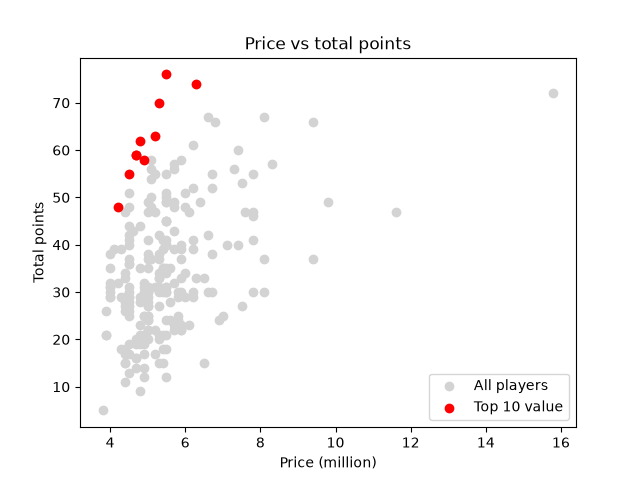
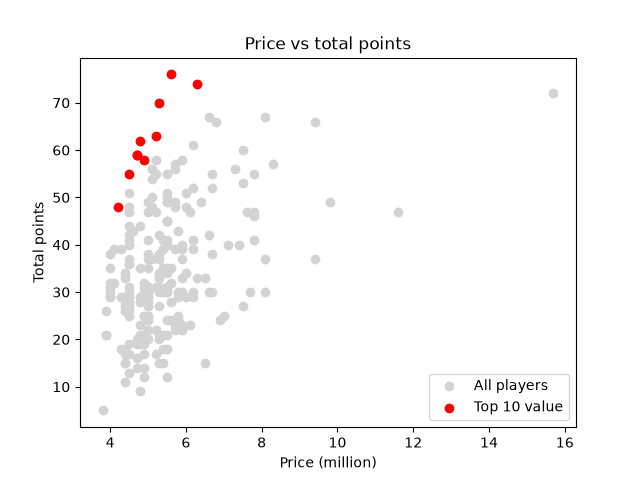
Exclude owned and injured players from suggestions

diff --git a/fetch_data.py b/fetch_data.py
@@ -1,6 +1,10 @@
 import requests
 import pandas as pd
 import matplotlib.pyplot as plt
+from openpyxl.drawing.image import Image
+from openpyxl.styles import Font
+from openpyxl.worksheet.table import Table, TableStyleInfo
+from openpyxl.formatting.rule import ColorScaleRule
 
 response = requests.get("https://fantasy.premierleague.com/api/bootstrap-static/")
 
@@ -114,8 +118,11 @@ team_difficulty = team_difficulty.reset_index().merge(team_map, on="team")
 print(team_difficulty.sort_values("difficulty"))
 
 filtered_df = filtered_df.merge(team_difficulty[["team_name", "difficulty"]], on="team_name", how="left")
+filtered_df = filtered_df.merge(players_df[["web_name", "team_name", "chance_of_playing_next_round", "news"]], on=["web_name", "team_name"], how="left")
+filtered_df["chance_of_playing_next_round"] = filtered_df["chance_of_playing_next_round"].fillna(100)
 print(filtered_df[["web_name", "team_name", "position", "price", "difficulty"]].sort_values("difficulty").head(10))
 print(filtered_df["difficulty"].isna().sum())
+
 
 def suggest_transfer(player_name):
     player = my_team[my_team["web_name"] == player_name].iloc[0]
@@ -126,6 +133,7 @@ def suggest_transfer(player_name):
         & (filtered_df["price"] <= budget)
         & (~filtered_df["web_name"].isin(my_team["web_name"]))
         & (~filtered_df["team_name"].isin(full_teams))
+        & (filtered_df["chance_of_playing_next_round"] >= 75)
     ].copy()
     candidates["score"] = candidates["points_per_game"] / candidates["difficulty"]
     return candidates.sort_values(["score", "price"], ascending=[False, True]).head(3)
@@ -146,10 +154,59 @@ suggestions_df = pd.DataFrame(suggestions)
 suggestions_df["gain"] = suggestions_df["buy_score"] - suggestions_df["own_score"]
 print(suggestions_df.sort_values("gain", ascending=False))
 
+best_move = suggestions_df.sort_values("gain", ascending=False).iloc[0]
+summary_df = pd.DataFrame({
+    "Metric": ["Team", "Gameweek", "Total points", "Bank (million)", "Best transfer", "Gain in score"],
+    "Value": [entry_data["name"], gw, entry_data["summary_overall_points"], bank, best_move["sell"] + " -> " + best_move["buy"], round(best_move["gain"], 2)],
+})
+
+not_owned = filtered_df[(~filtered_df["web_name"].isin(my_team["web_name"])) & (filtered_df["chance_of_playing_next_round"] >= 75)]
+best_idx = not_owned.groupby(["position", "price_band"], observed=True)["points_per_million"].idxmax()
+best_alt = not_owned.loc[best_idx, ["position", "price_band", "web_name", "points_per_million"]]
+mine = filtered_df[filtered_df["web_name"].isin(my_team["web_name"])][["web_name", "position", "price_band", "points_per_million"]]
+comparison = mine.merge(best_alt, on=["position", "price_band"], how="left", suffixes=("_mine", "_best")).sort_values(["position", "points_per_million_mine"], ascending=[True, False])
+
+report_sheets = {
+    "Summary": summary_df,
+    "Transfers": suggestions_df.sort_values("gain", ascending=False).rename(columns={
+        "sell": "Sell", "own_score": "Own score", "buy": "Buy", "buy_price": "Buy price (m)", "buy_score": "Buy score", "gain": "Gain"}),
+    "My team": comparison[["web_name_mine", "position", "price_band", "points_per_million_mine", "web_name_best", "points_per_million_best"]].rename(columns={
+        "web_name_mine": "Player", "position": "Position", "price_band": "Price band", "points_per_million_mine": "Points per million",
+        "web_name_best": "Best alternative", "points_per_million_best": "Alternative points per million"}),
+    "Best by price band": best_by_band[["position", "price_band", "web_name", "team_name", "price", "points_per_million"]].rename(columns={
+        "position": "Position", "price_band": "Price band", "web_name": "Player", "team_name": "Team", "price": "Price (m)", "points_per_million": "Points per million"}),
+    "Fixtures": team_difficulty.sort_values("difficulty")[["team_name", "difficulty"]].rename(columns={
+        "team_name": "Team", "difficulty": "Average difficulty, next 3 rounds"}),
+}
+tab_colors = ["1F4E78", "2E75B6", "548235", "BF8F00", "C00000"]
+green_to_red = ColorScaleRule(start_type="min", start_color="63BE7B", mid_type="percentile", mid_value=50, mid_color="FFFFFF", end_type="max", end_color="F8696B")
+red_to_green = ColorScaleRule(start_type="min", start_color="F8696B", mid_type="num", mid_value=0, mid_color="FFFFFF", end_type="max", end_color="63BE7B")
+
 with pd.ExcelWriter("fpl_report.xlsx", engine="openpyxl") as writer:
-    suggestions_df.sort_values("gain", ascending=False).to_excel(writer, sheet_name="Transfers", index=False)
-    comparison[["web_name_mine", "position", "price_band", "points_per_million_mine", "web_name_best", "points_per_million_best"]].to_excel(writer, sheet_name="My team", index=False)
-    best_by_band[["position", "price_band", "web_name", "team_name", "price", "points_per_million"]].to_excel(writer, sheet_name="Best by price band", index=False)
-    team_difficulty.sort_values("difficulty").to_excel(writer, sheet_name="Fixtures", index=False)
+    for i, (name, df) in enumerate(report_sheets.items()):
+        df.to_excel(writer, sheet_name=name, index=False, startrow=2)
+        sheet = writer.sheets[name]
+        sheet["A1"] = f"FPL report: {entry_data['name']}" if name == "Summary" else name
+        sheet["A1"].font = Font(size=16, bold=True, color="1F4E78")
+        sheet["A2"] = f"Gameweek {gw}. Data from the official FPL API."
+        sheet["A2"].font = Font(italic=True, color="808080")
+        sheet.sheet_view.showGridLines = False
+        sheet.sheet_properties.tabColor = tab_colors[i]
+        for column in sheet.iter_cols(min_row=3):
+            longest = max(len(f"{cell.value:.2f}") if isinstance(cell.value, float) else len(str(cell.value)) for cell in column if cell.value is not None)
+            sheet.column_dimensions[column[0].column_letter].width = longest + 4
+            for cell in column[1:]:
+                if isinstance(cell.value, float):
+                    cell.number_format = "0.00"
+        last_cell = sheet.cell(row=sheet.max_row, column=sheet.max_column).coordinate
+        table = Table(displayName=f"Table{i}", ref=f"A3:{last_cell}")
+        table.tableStyleInfo = TableStyleInfo(name="TableStyleMedium2", showRowStripes=True)
+        sheet.add_table(table)
+        sheet.freeze_panes = "A4"
+    transfers = writer.sheets["Transfers"]
+    transfers.conditional_formatting.add(f"F4:F{transfers.max_row}", red_to_green)
+    fixtures = writer.sheets["Fixtures"]
+    fixtures.conditional_formatting.add(f"B4:B{fixtures.max_row}", green_to_red)
 print("Report saved: fpl_report.xlsx")
 
+print(filtered_df[filtered_df["chance_of_playing_next_round"] < 75][["web_name", "team_name", "chance_of_playing_next_round", "news"]])
